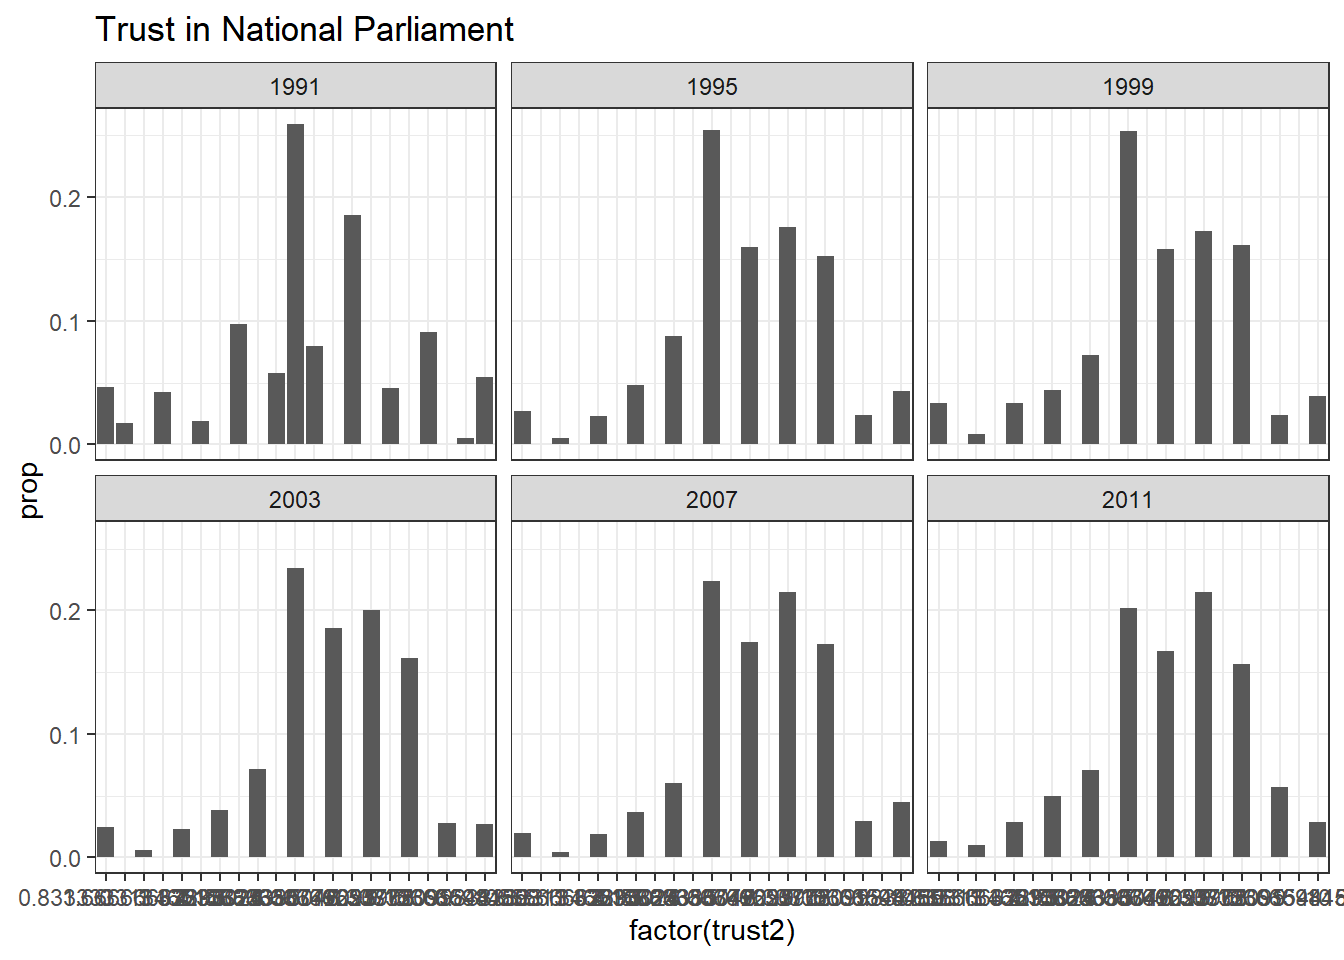
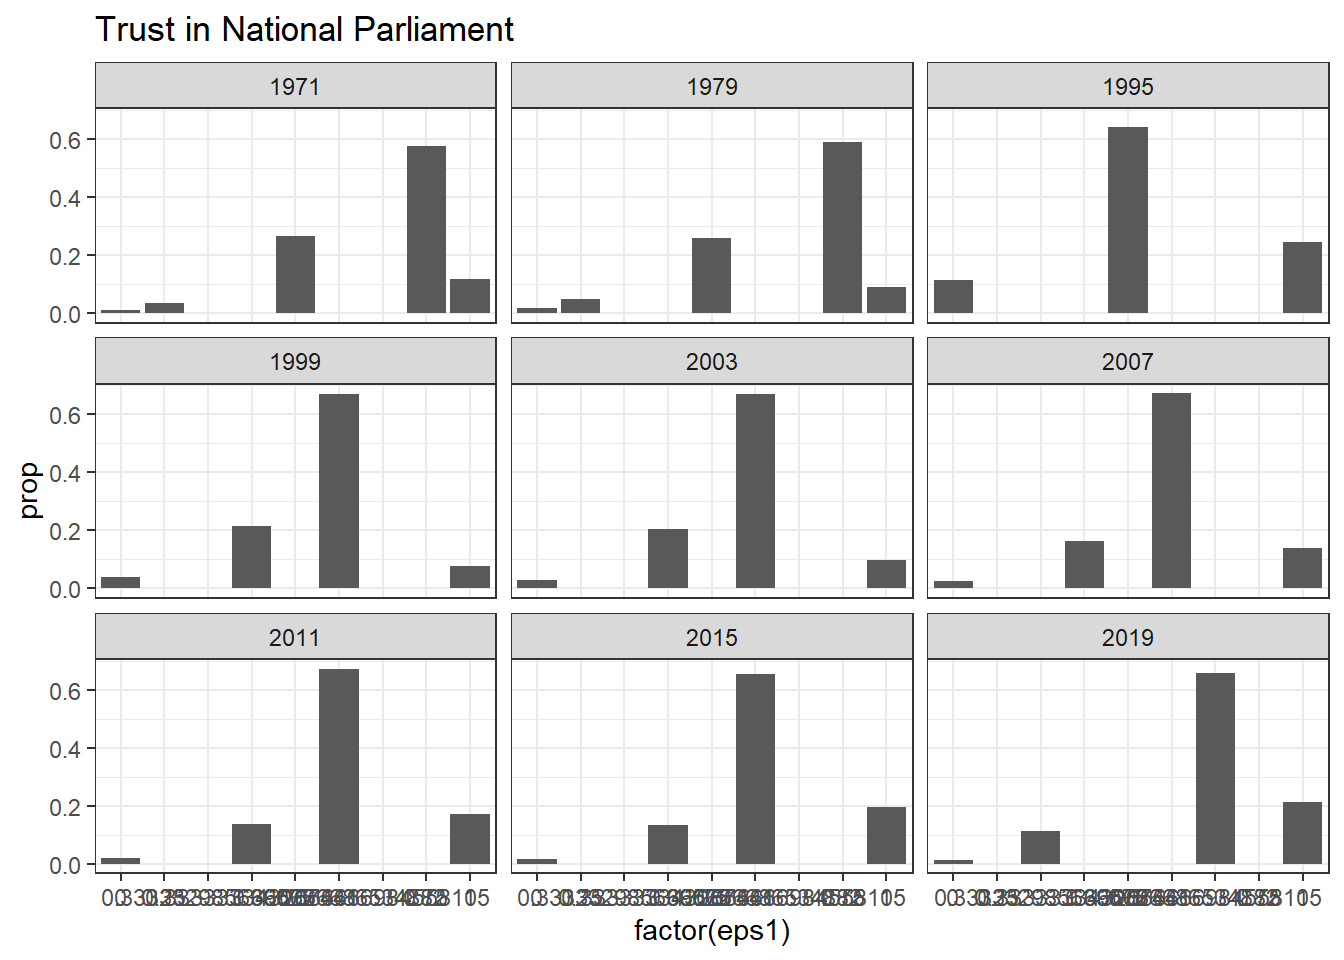
....

diff --git a/docs/posts/trust institution switzerland/trust institution switzerland.html b/docs/posts/trust institution switzerland/trust institution switzerland.html
@@ -290,20 +290,20 @@ div.csl-indent {
 <span id="cb1-14"><a href="#cb1-14" aria-hidden="true" tabindex="-1"></a>              <span class="at">vjust =</span> <span class="sc">-</span><span class="fl">0.5</span>,    <span class="co"># nudge above top of bar</span></span>
 <span id="cb1-15"><a href="#cb1-15" aria-hidden="true" tabindex="-1"></a>              <span class="at">size =</span> <span class="dv">3</span>)</span></code><button title="Copy to Clipboard" class="code-copy-button"><i class="bi"></i></button></pre></div>
 <div class="cell-output-display">
-<p><img src="trust-institution-switzerland_files/figure-html/unnamed-chunk-2-1.png" class="img-fluid" width="672"></p>
+<p><img src="trust-institution-switzerland_files/figure-html/unnamed-chunk-2-1.png" class="img-fluid" width="1440"></p>
 </div>
 </div>
 <p>Here is a basic visualisation to show the distribution of the variable for each year. It is strinking how the distribution is almost the same for the years 1971-1975-1987 and then from 1995 to 2011. This suggests a great stability of trust in Federal Council, which seems positive.</p>
 <div class="cell">
 <div class="sourceCode cell-code" id="cb2"><pre class="sourceCode r code-with-copy"><code class="sourceCode r"><span id="cb2-1"><a href="#cb2-1" aria-hidden="true" tabindex="-1"></a>ses <span class="sc">%&gt;%</span> </span>
 <span id="cb2-2"><a href="#cb2-2" aria-hidden="true" tabindex="-1"></a>  <span class="fu">group_by</span>(year) <span class="sc">%&gt;%</span> </span>
-<span id="cb2-3"><a href="#cb2-3" aria-hidden="true" tabindex="-1"></a>  <span class="fu">count</span>(trust2) <span class="sc">%&gt;%</span> </span>
+<span id="cb2-3"><a href="#cb2-3" aria-hidden="true" tabindex="-1"></a>  <span class="fu">count</span>(eps1) <span class="sc">%&gt;%</span> </span>
 <span id="cb2-4"><a href="#cb2-4" aria-hidden="true" tabindex="-1"></a>  <span class="fu">drop_na</span>() <span class="sc">%&gt;%</span> </span>
 <span id="cb2-5"><a href="#cb2-5" aria-hidden="true" tabindex="-1"></a>  <span class="fu">mutate</span>(<span class="at">prop =</span> n<span class="sc">/</span><span class="fu">sum</span>(n)) <span class="sc">%&gt;%</span> </span>
 <span id="cb2-6"><a href="#cb2-6" aria-hidden="true" tabindex="-1"></a>  <span class="fu">ungroup</span>() <span class="sc">%&gt;%</span> </span>
-<span id="cb2-7"><a href="#cb2-7" aria-hidden="true" tabindex="-1"></a>  <span class="fu">filter</span>(year <span class="sc">%in%</span> <span class="fu">c</span>(<span class="dv">1991</span>, <span class="dv">1995</span>, <span class="dv">1999</span>, <span class="dv">2003</span>, <span class="dv">2007</span>, <span class="dv">2011</span>)) <span class="sc">%&gt;%</span> </span>
+<span id="cb2-7"><a href="#cb2-7" aria-hidden="true" tabindex="-1"></a>  <span class="fu">filter</span>(year <span class="sc">%in%</span> <span class="fu">c</span>(<span class="dv">1971</span>, <span class="dv">1979</span>, <span class="dv">1995</span>, <span class="dv">1999</span>, <span class="dv">2003</span>, <span class="dv">2007</span>, <span class="dv">2011</span>, <span class="dv">2015</span>, <span class="dv">2019</span>)) <span class="sc">%&gt;%</span> </span>
 <span id="cb2-8"><a href="#cb2-8" aria-hidden="true" tabindex="-1"></a>  <span class="fu">ggplot</span>()<span class="sc">+</span></span>
-<span id="cb2-9"><a href="#cb2-9" aria-hidden="true" tabindex="-1"></a>  <span class="fu">aes</span>(<span class="at">x =</span> <span class="fu">factor</span>(trust2), <span class="at">y =</span> prop)<span class="sc">+</span></span>
+<span id="cb2-9"><a href="#cb2-9" aria-hidden="true" tabindex="-1"></a>  <span class="fu">aes</span>(<span class="at">x =</span> <span class="fu">factor</span>(eps1), <span class="at">y =</span> prop)<span class="sc">+</span></span>
 <span id="cb2-10"><a href="#cb2-10" aria-hidden="true" tabindex="-1"></a>  <span class="fu">geom_col</span>()<span class="sc">+</span></span>
 <span id="cb2-11"><a href="#cb2-11" aria-hidden="true" tabindex="-1"></a>  <span class="fu">labs</span>(<span class="at">title =</span> <span class="st">"Trust in National Parliament"</span>)<span class="sc">+</span></span>
 <span id="cb2-12"><a href="#cb2-12" aria-hidden="true" tabindex="-1"></a>  <span class="fu">facet_wrap</span>(<span class="sc">~</span>year)<span class="sc">+</span></span>

diff --git a/docs/index.html b/docs/index.html
@@ -279,7 +279,7 @@ To build their database on World political cleavages and inequality, Piketty and
 <a href="./posts/Techinal notes of political cleavages and inequality/technical note piketty 2021.html"> </a>
 </div>
 </div>
-<div class="quarto-post image-right" data-index="5" data-listing-file-modified-sort="1685825650984" data-listing-reading-time-sort="4.165">
+<div class="quarto-post image-right" data-index="5" data-listing-file-modified-sort="1685826842030" data-listing-reading-time-sort="4.2">
 <div class="thumbnail">
 <a href="./posts/trust institution switzerland/trust institution switzerland.html">
 <div class="thumbnail-image">
